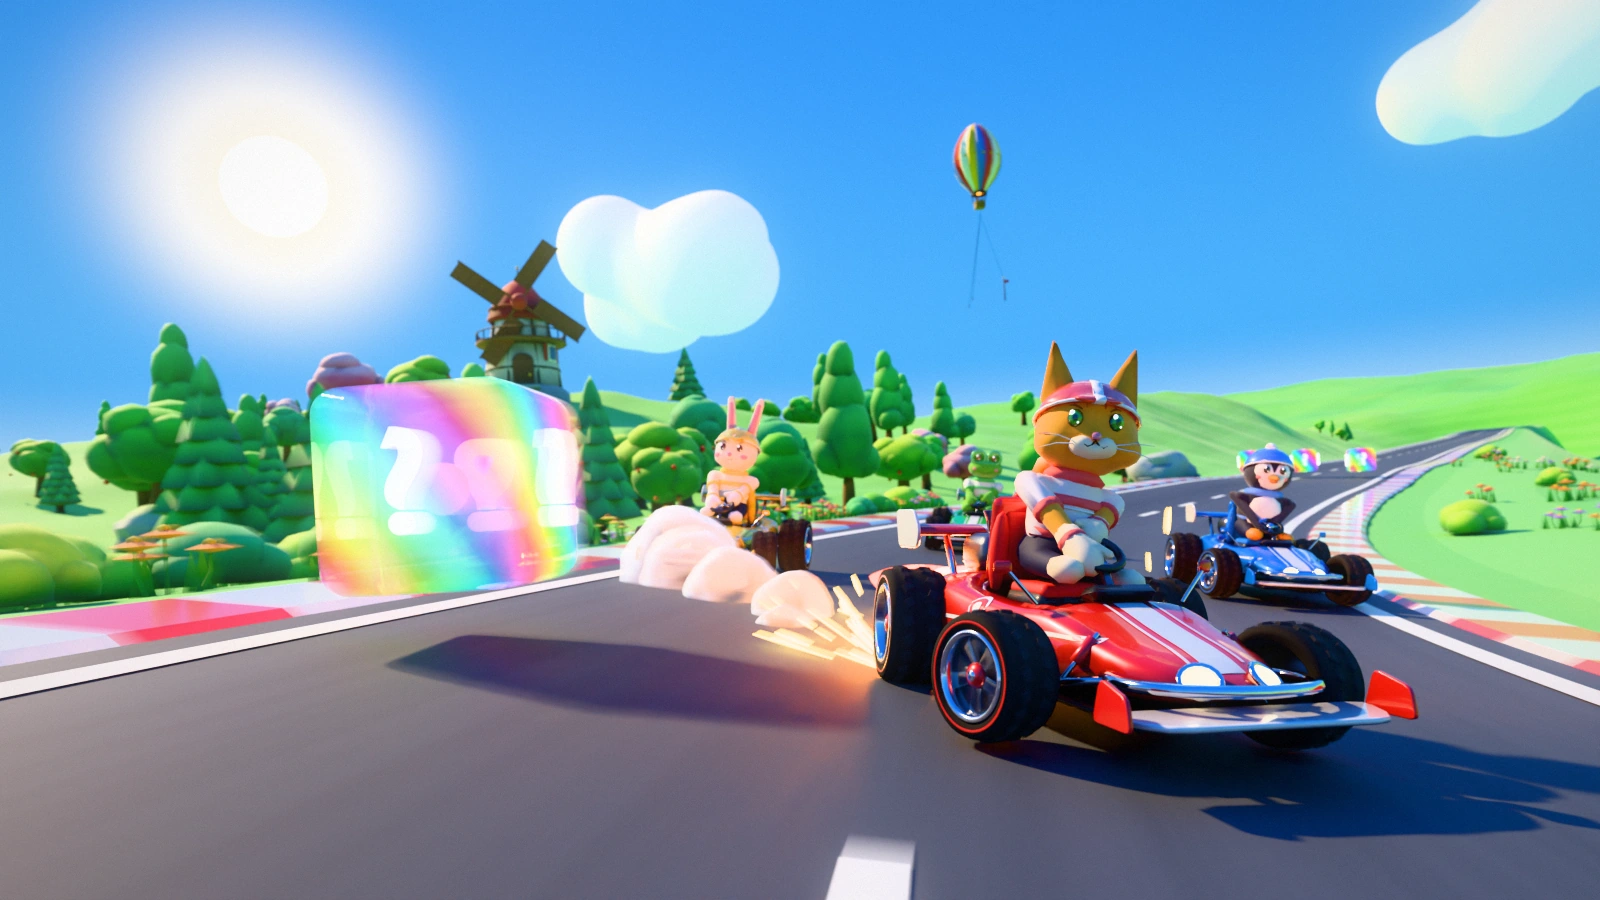
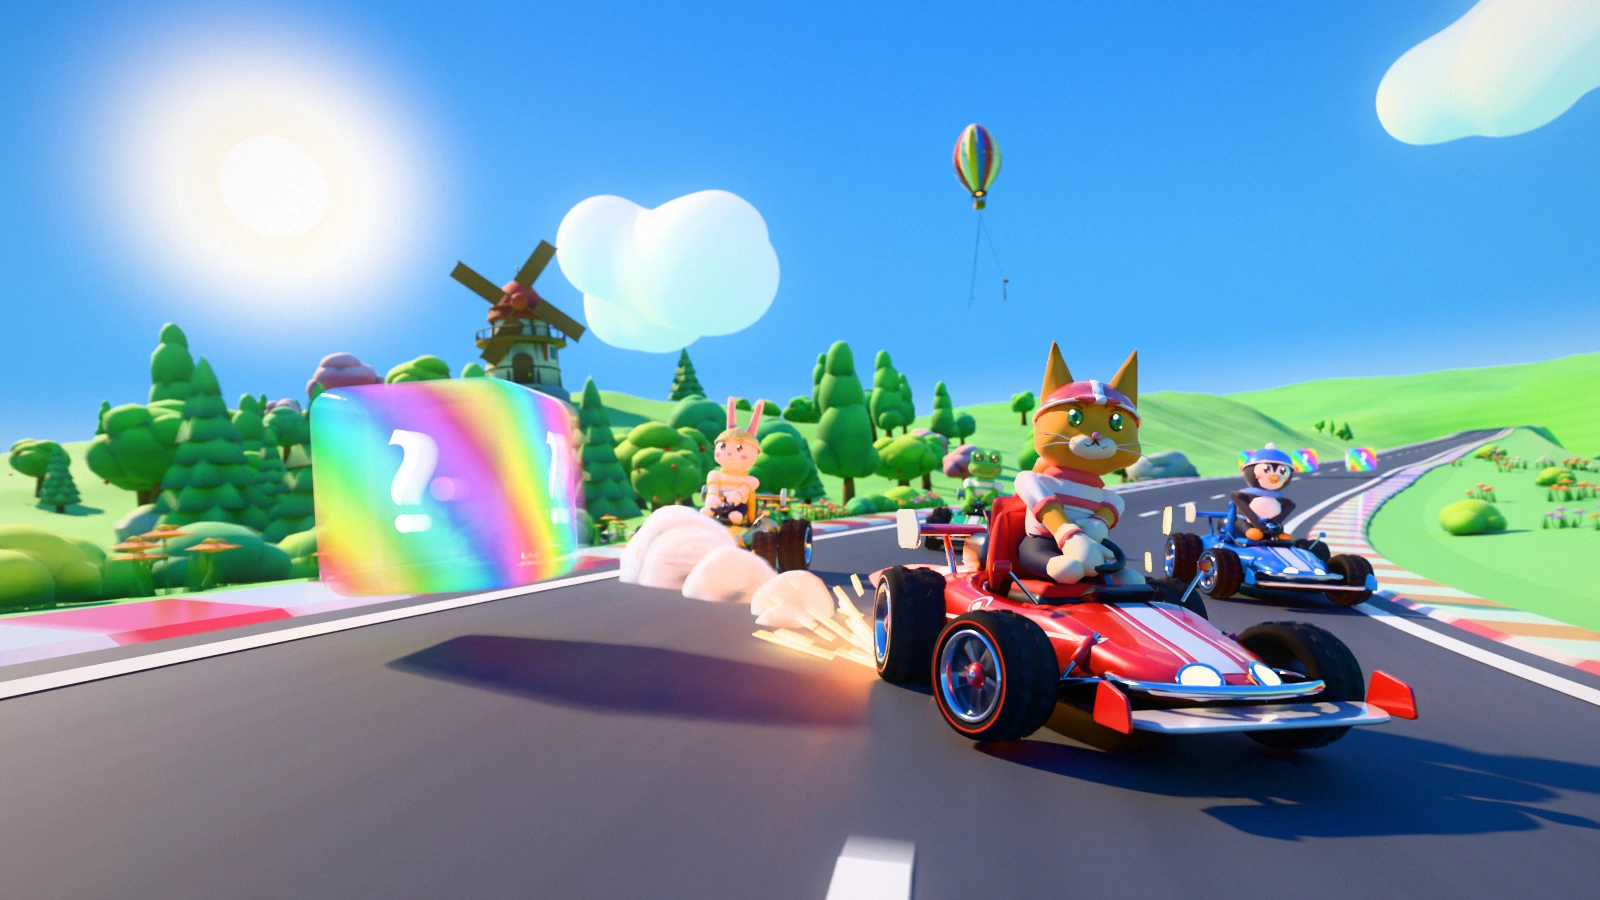
Key art: the rainbow item box shows one clean question mark a face (flat, clear from behind) instead of its mirror image through the glass; poster and title re-rendered

diff --git a/art/kart/poster/world.py b/art/kart/poster/world.py
@@ -687,6 +687,28 @@ def rainbow_glass_material():
     return m
 
 
+def question_material():
+    """The bright white of a box's question mark: glowing on its front, clear from behind (so the far side's marks do not show through the glass)."""
+    m = bpy.data.materials.new("itembox.q")
+    m.use_nodes = True
+    nt = m.node_tree
+    for n in list(nt.nodes):
+        if n.type != "OUTPUT_MATERIAL":
+            nt.nodes.remove(n)
+    out = nt.nodes["Material Output"]
+    glow = nt.nodes.new("ShaderNodeEmission")
+    glow.inputs["Color"].default_value = (1.0, 1.0, 1.0, 1.0)
+    glow.inputs["Strength"].default_value = 4.5
+    clear = nt.nodes.new("ShaderNodeBsdfTransparent")
+    geo = nt.nodes.new("ShaderNodeNewGeometry")
+    mix = nt.nodes.new("ShaderNodeMixShader")
+    nt.links.new(geo.outputs["Backfacing"], mix.inputs["Fac"])
+    nt.links.new(glow.outputs["Emission"], mix.inputs[1])
+    nt.links.new(clear.outputs["BSDF"], mix.inputs[2])
+    nt.links.new(mix.outputs["Shader"], out.inputs["Surface"])
+    return m
+
+
 def item_box(loc, yaw=0.0, size=1.6, tilt=(0.0, 0.0)):
     """Returns the root empty. The cube's edge is `size` (the game's BOX_SIZE 1.6): a glassy rainbow cube, a bright question mark
     on each side, a glow at its heart."""
@@ -709,19 +731,21 @@ def item_box(loc, yaw=0.0, size=1.6, tilt=(0.0, 0.0)):
     core = bpy.data.objects.new("itembox.core", bpy.data.meshes.new("itembox.core"))
     bpy.context.scene.collection.objects.link(core)
     bm = bmesh.new()
-    bmesh.ops.create_icosphere(bm, subdivisions=3, radius=size * 0.13)
+    bmesh.ops.create_icosphere(bm, subdivisions=3, radius=size * 0.06)
     bm.to_mesh(core.data)
     bm.free()
-    core.data.materials.append(kit.emissive_material("itembox.core", hexl("#fff0c8"), 3.0))
+    core.data.materials.append(kit.emissive_material("itembox.core", hexl("#fff0c8"), 1.8))
     core.parent = root
     core.visible_shadow = False
-    qm = kit.emissive_material("itembox.q", hexl("#ffffff"), 4.5)
+    qm = question_material()
     for k in range(4):
         cu = bpy.data.curves.new("q", "FONT")
         cu.body = "?"
         cu.size = size * 0.66
-        cu.extrude = size * 0.035
-        cu.bevel_depth = size * 0.012
+        # A flat glyph, one sided: seen through the glass from the far side it is the back of a face's mark, and is left clear, so
+        # each side shows one clean "?" the right way round (an extruded one showed its mirror image through the glass, overlapping).
+        cu.extrude = 0.0
+        cu.bevel_depth = 0.0
         cu.align_x = "CENTER"
         cu.align_y = "CENTER"
         q = bpy.data.objects.new("itembox.q", cu)
